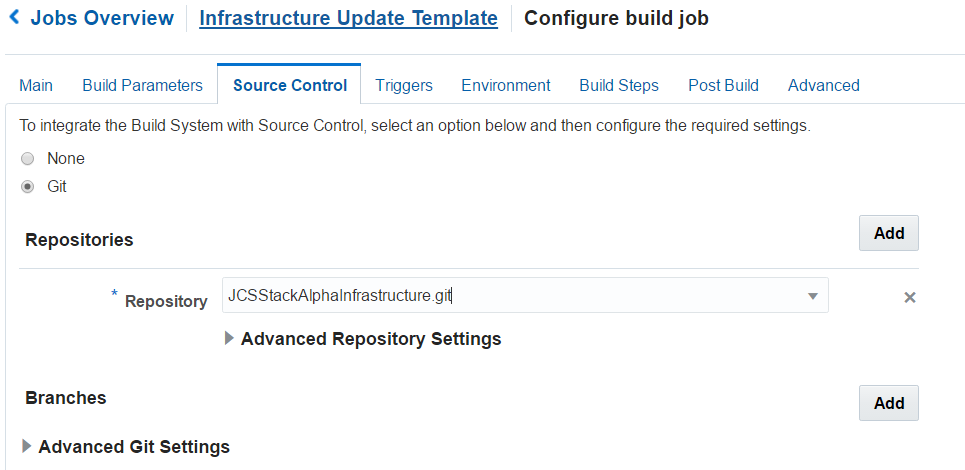
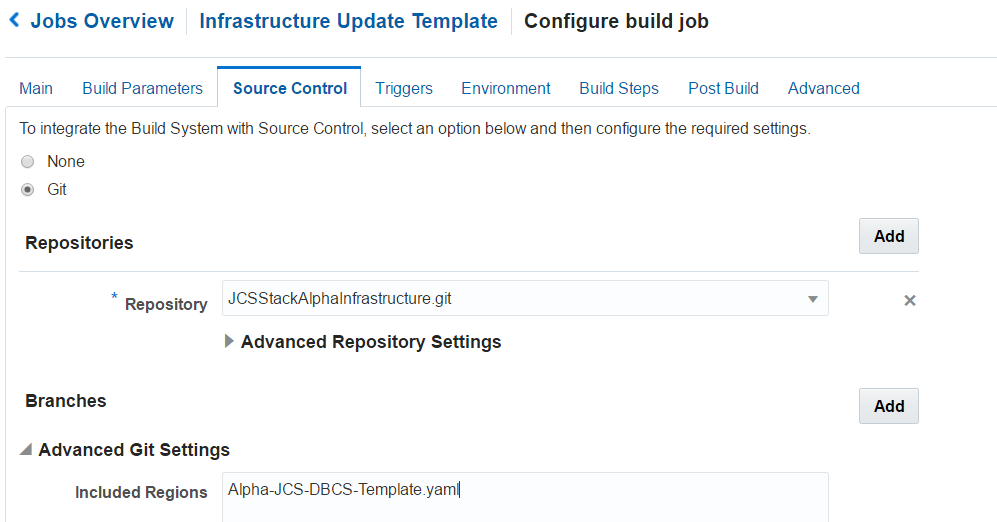
Fixed Title Picture for Lab 200

diff --git a/JCSPipelineStackManager/JCSPipelineStackManager200.md b/JCSPipelineStackManager/JCSPipelineStackManager200.md
@@ -86,7 +86,7 @@ Now that we have the configuration code in our managed GIT repository, we need t
 
     ![](images/200/Picture200-10.png)
 
-- Click the **Source Control** tab. Click **Git** and select the **JCSStackAlphaInfrastructure.git* from the drop down.
+- Click the **Source Control** tab. Click **Git** and select **JCSStackAlphaInfrastructure.git** from the drop down. Expand **Advanced Git Settings** and enter **Alpha-JCS-DBCS-Template.yaml**
 
     ![](images/200/Picture200-11.png)
 
@@ -100,7 +100,7 @@ Now that we have the configuration code in our managed GIT repository, we need t
 curl --request POST \
   --user <opc username>:<opc password> \
   --url https://psm.europe.oraclecloud.com/paas/api/v1.1/instancemgmt/<OPC Identity Domain>/templates/cst/instances \
-  --header 'X-ID-TENANT-NAME: <OPC Identity Domain> \
+  --header 'X-ID-TENANT-NAME: <OPC Identity Domain>' \
   --header 'content-type: multipart/form-data' \
   --form template=@Alpha-JCS-DBCS-Template.yaml
 ```
@@ -110,3 +110,5 @@ curl --request POST \
 - Click **Save** to complete the configuration.
 
 - Click the **Build Now** button to start the build immediately.
+
+    ![](images/200/Picture200-14.png)
